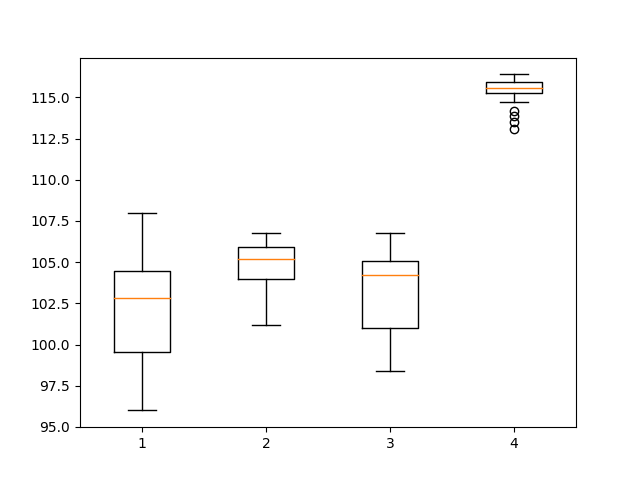
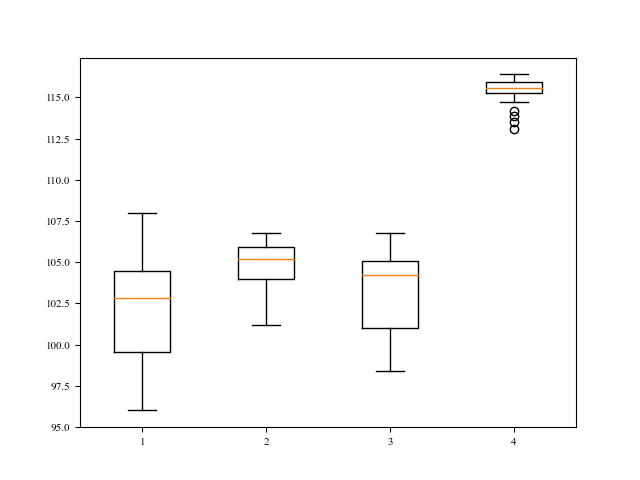
PlotUpdate
Added plot of moving average and standrad deviation, adjust font family and size

diff --git a/statistical_analysis/main.py b/statistical_analysis/main.py
@@ -4,6 +4,9 @@ import pandas as pd
 import numpy as np
 from pandas.plotting import table
 
+plt.rcParams['font.size'] = '8'
+plt.rcParams['font.family'] = 'Times New Roman'
+
 names = glob('D:/GitHub/sensors_measurements_projects/statistical_analysis/data/*.*')
 
 datasets = ['No filter', 'time step 1', 'time step 10', 'time step 100']
@@ -21,17 +24,34 @@ maximumValues = []
 calculatedMinimumValues = []
 calculatedMaximumValues = []
 
-fig1, ax = plt.subplots(1, 1)
+fig1, ax = plt.subplots(1, 3)
 fig2, az = plt.subplots(1, 1)
 fig3, ay = plt.subplots(1, 1)
 
 for i in range(len(names)):
   array = np.loadtxt(names[i], dtype=str)[:60, :]
   array = np.delete(array, range(2, int(array.shape[1] - 1)), 1)
-
-  az.plot( array[:, 0])
-
   heading = np.array(array[:, 0], dtype = float)
+
+
+  #calculating the moving average values
+  calculatedArray = heading
+  movingAverageValues = []
+  movingStandardDeviation = []
+  for j in range(calculatedArray.shape[0]):
+    if j == 0:
+      singularAverage = calculatedArray[j]
+      singularStandardDeviation = 0
+    else:
+      singularAverage = np.average(calculatedArray[:j])
+      singularStandardDeviation = np.std(calculatedArray[:j])
+    movingAverageValues.append(singularAverage)
+    movingStandardDeviation.append(singularStandardDeviation)
+
+  ax[0].plot( array[:, 0])
+  ax[1].plot(movingAverageValues)
+  ax[2].plot(movingStandardDeviation)
+
   minimumValues.append(np.amin(heading))
   maximumValues.append(np.amax(heading))
 
@@ -49,20 +69,26 @@ for i in range(len(names)):
   outliers[1] = array[outliersPosition, :]
 
   array = np.delete(array, outliersPosition, 0)
-  ax.hist(array[:, 0], bins=20, alpha=0.75, histtype='barstacked')
+  az.hist(array[:, 0], bins=20, alpha=0.75, histtype='barstacked')
 
   headings[datasets[i]] = array[:, 0].astype('float64')
 
 headingRange = range(int(min(minimumValues))-1, int(max(maximumValues))+1, 1)
-ax.axes.set_xscale('linear')
-az.axes.set_yscale('linear')
+
+ax[0].axes.set_yscale('linear')
+ax[0].axes.set_title('Change of heading')
+ax[1].axes.set_yscale('linear')
+ax[1].axes.set_title('Change of average heading ')
+ax[2].axes.set_yscale('linear')
+ax[2].axes.set_title('Change of standard deviation ')
+az.axes.set_xscale('linear')
 
 ay.boxplot(headings.values())
 
 
-fig1.savefig('results/histogram.png')
+fig1.savefig('results/heading.png')
 fig3.savefig('results/boxPlots.png')
-fig2.savefig('results/heading.png')
+fig2.savefig('results/histogram.png')
 
 data = pd.DataFrame([median, standardDeviation, quantiles_25, quantiles_75, calculatedMinimumValues,
                      calculatedMaximumValues], columns = datasets, index = requiredData).T
